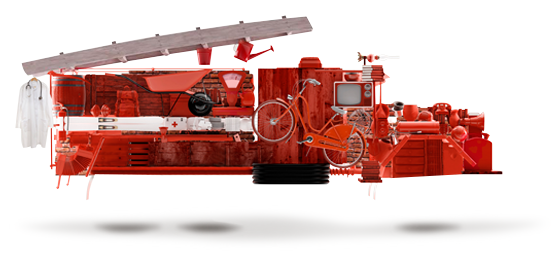
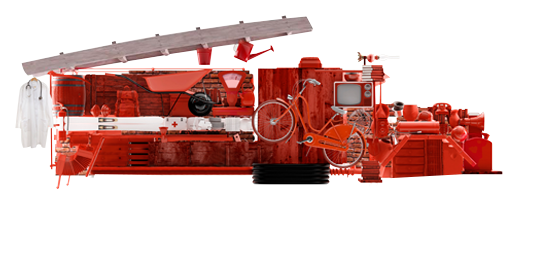
car

Changed region(s): [[0.1223, 0.8438, 0.6115, 0.9375], [0.6727, 0.8438, 0.8867, 0.9375], [0.1529, 0.6875, 0.1835, 0.7812]]

diff --git a/app/index.html b/app/index.html
@@ -135,7 +135,7 @@
           <div class="block-white">
             <p>Залучення добровольців-вогнеборців до системи пожежної безпеки – важливий та необхідний крок. Спільні дії добровольців-вогнеборців та місцевих пожежних команд  забезпечать своєчасне реагування на пожежі у віддаленій місцевості, селах та містах та зменшить час прибуття допомоги. Таким чином разом вдасться знизити до мінімуму людські жертви та матеріальні збитки.</p><img class="piece" src="img/pieces/sector1.png">
             <!--img(src='../img/pieces/car.png' class='car')-->
-            <div class="car-block"><img class="car" src="img/car/car.png"><img class="wheel1" src="img/car/wheel1.png"><img class="wheel2" src="img/car/wheel2.png"><img class="wheel3" src="img/car/wheel3.png"></div>
+            <div class="car-block"><img class="car" src="img/car/car.png"><img class="wheel1" src="img/car/wheel1.png"><img class="wheel2" src="img/car/wheel2.png"><img class="wheel3" src="img/car/wheel3.png"><img class="car-shadow" src="img/car/shadow.png"></div>
           </div>
         </div>
       </div>

diff --git a/app/css/style.css b/app/css/style.css
@@ -5206,6 +5206,12 @@ button.close:hover {
 	bottom: 28px;
 	z-index: 2;
 }
+.block-white .car-block .car-shadow {
+	position: absolute;
+	left: 7px;
+	bottom: 0;
+	z-index: 1;
+}
 .block-white.house {
 	padding: 8.3rem 26rem 22rem 25.75rem;
 }
